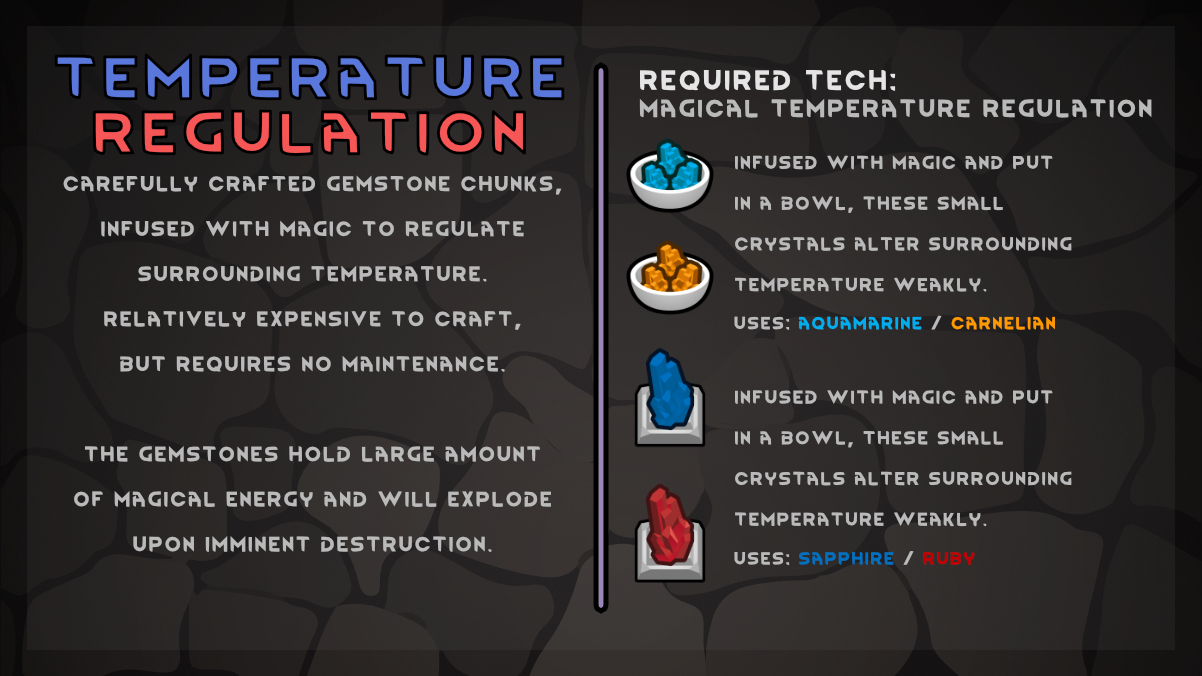
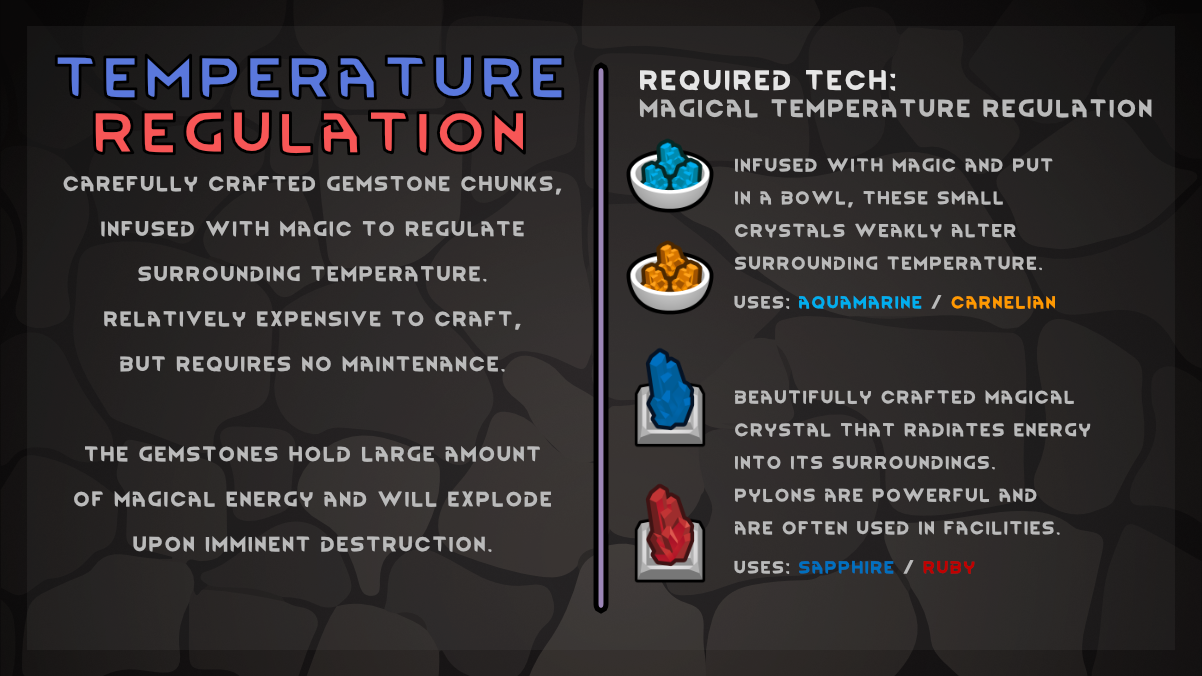
v1.0 Update

Changed region(s): [[0.6156, 0.5592, 0.9235, 0.8698], [0.6156, 0.2175, 0.8927, 0.497]]

diff --git a/README.md b/README.md
@@ -1,6 +1,6 @@
 # RimFantasy - Temperature Regulation
 
-This mod adds 4 new magical gemstone furnitures that radiate temperature changing energies.
+This mod adds 4 new magical gemstone furnitures that radiate temperature changing energy
 
 Moderately powerful but costly, they are capable of supporting anywhere from a small storage room to a large facility when multiple are installed. Be careful though, the energies within the crystals are barely contained and excessive damage will produce a rather spectacular explosion.
 
@@ -23,9 +23,9 @@ Balance feedbacks are welcomed, please provide context when doing so.
 
 ### Links
 
-- [Current Version](https://github.com/Sierra0001/RimFantasy---Temperature-Pylons/releases/tag/v1.0)
-- [Steam](https://steamcommunity.com/sharedfiles/filedetails/?id=1234567890)
-- [GitHub](https://github.com/Sierra0001/RimFantasy---Temperature-Pylons)
+- [Current Version](https://github.com/Sierra0001/RimFantasy---Temperature-Regulation/releases/tag/v1.0)
+- [Steam](https://steamcommunity.com/sharedfiles/filedetails/?id=2630670287)
+- [GitHub](https://github.com/Sierra0001/RimFantasy---Temperature-Regulation)
 
 ### Credits
 
